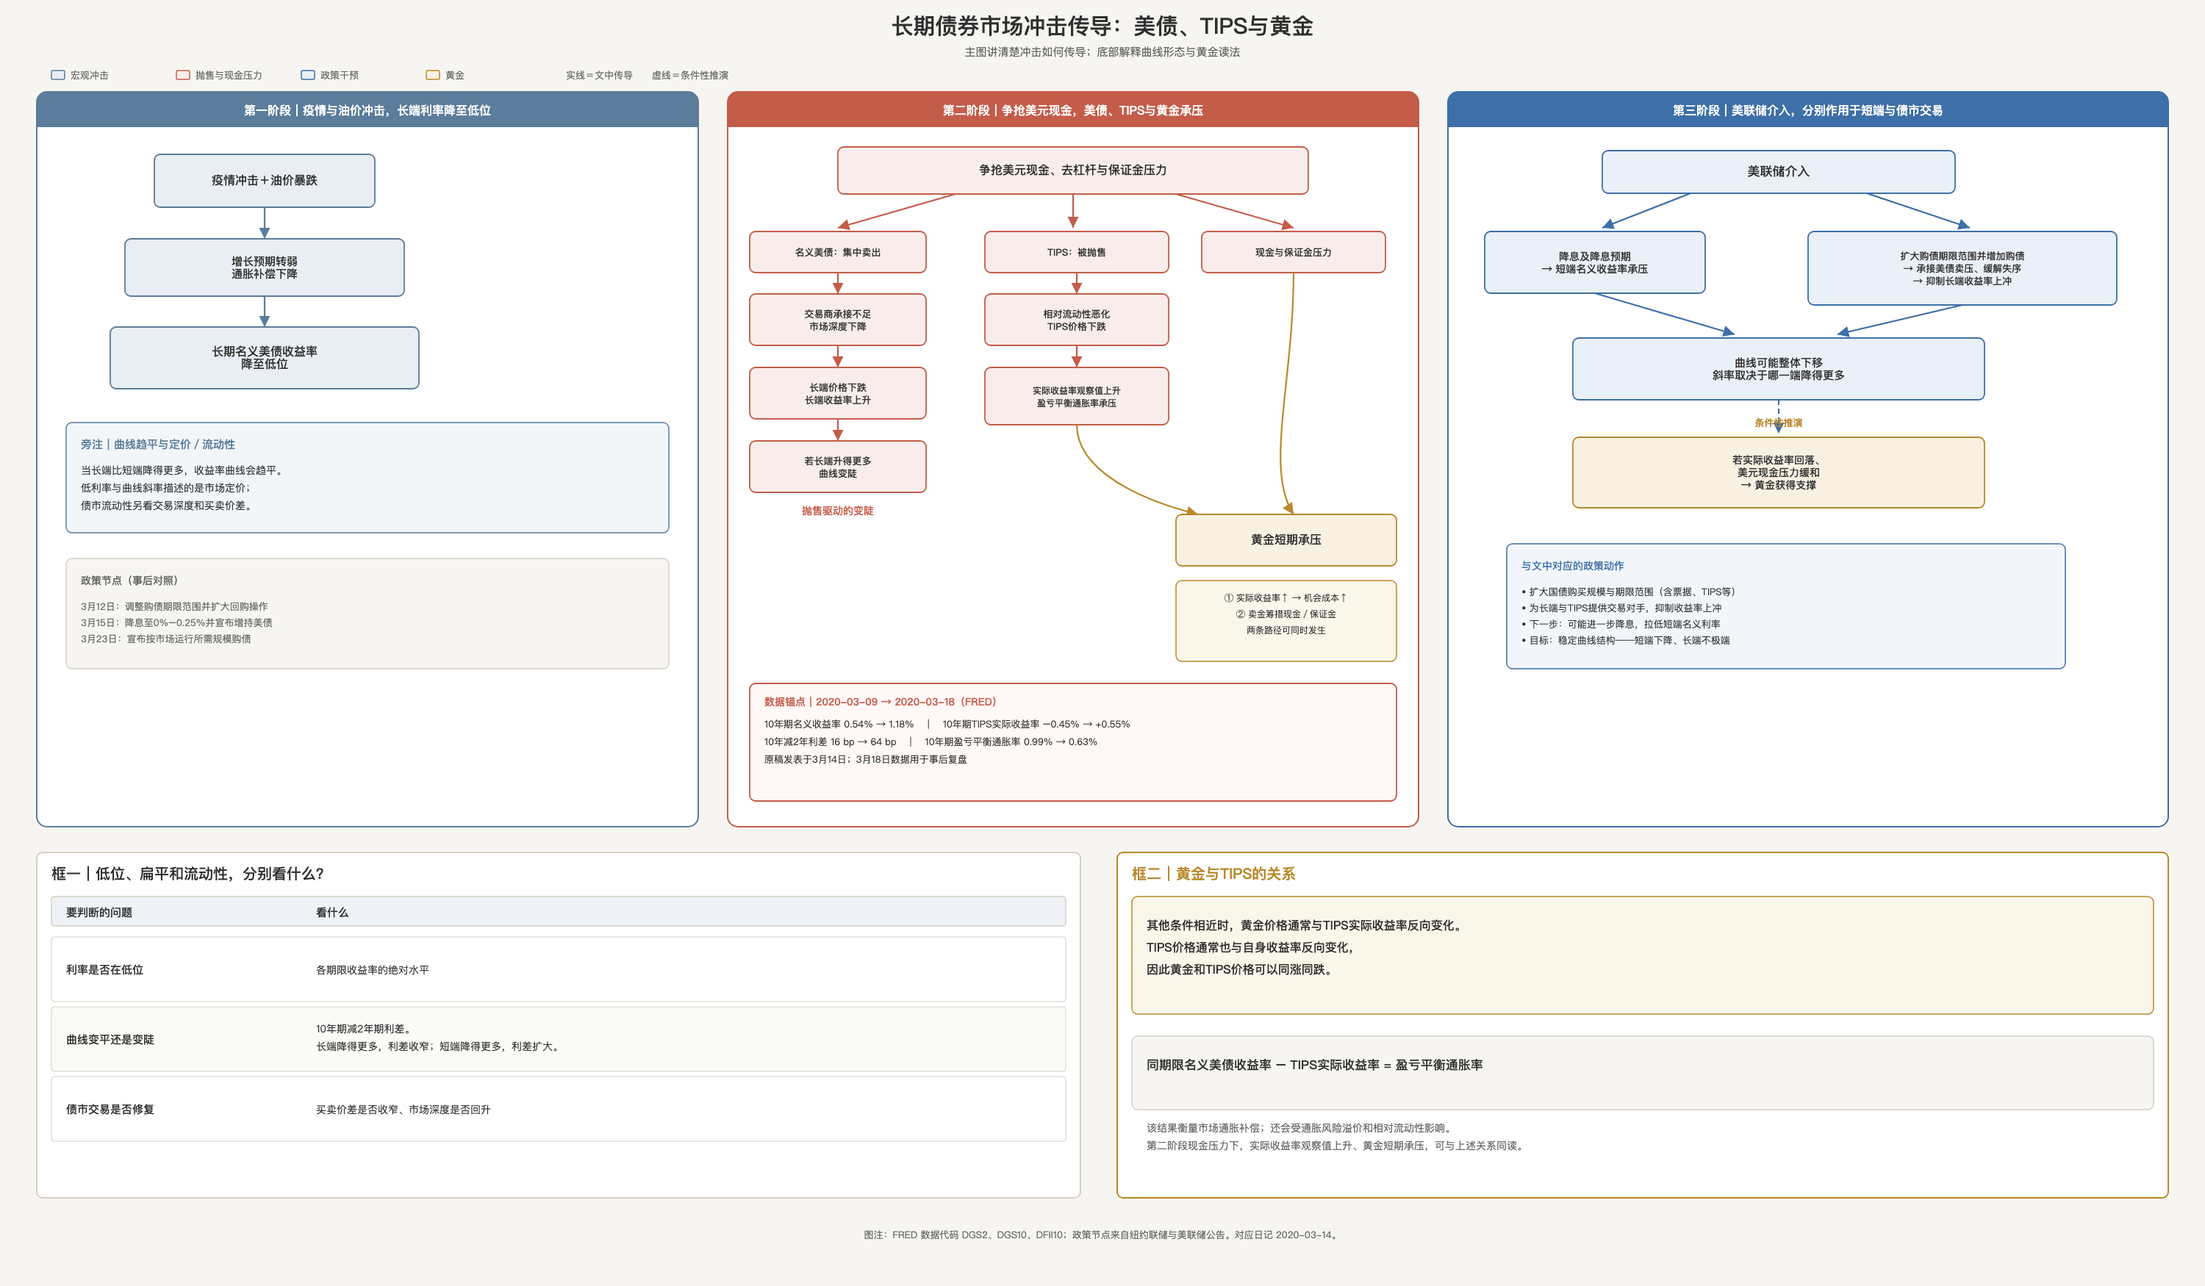
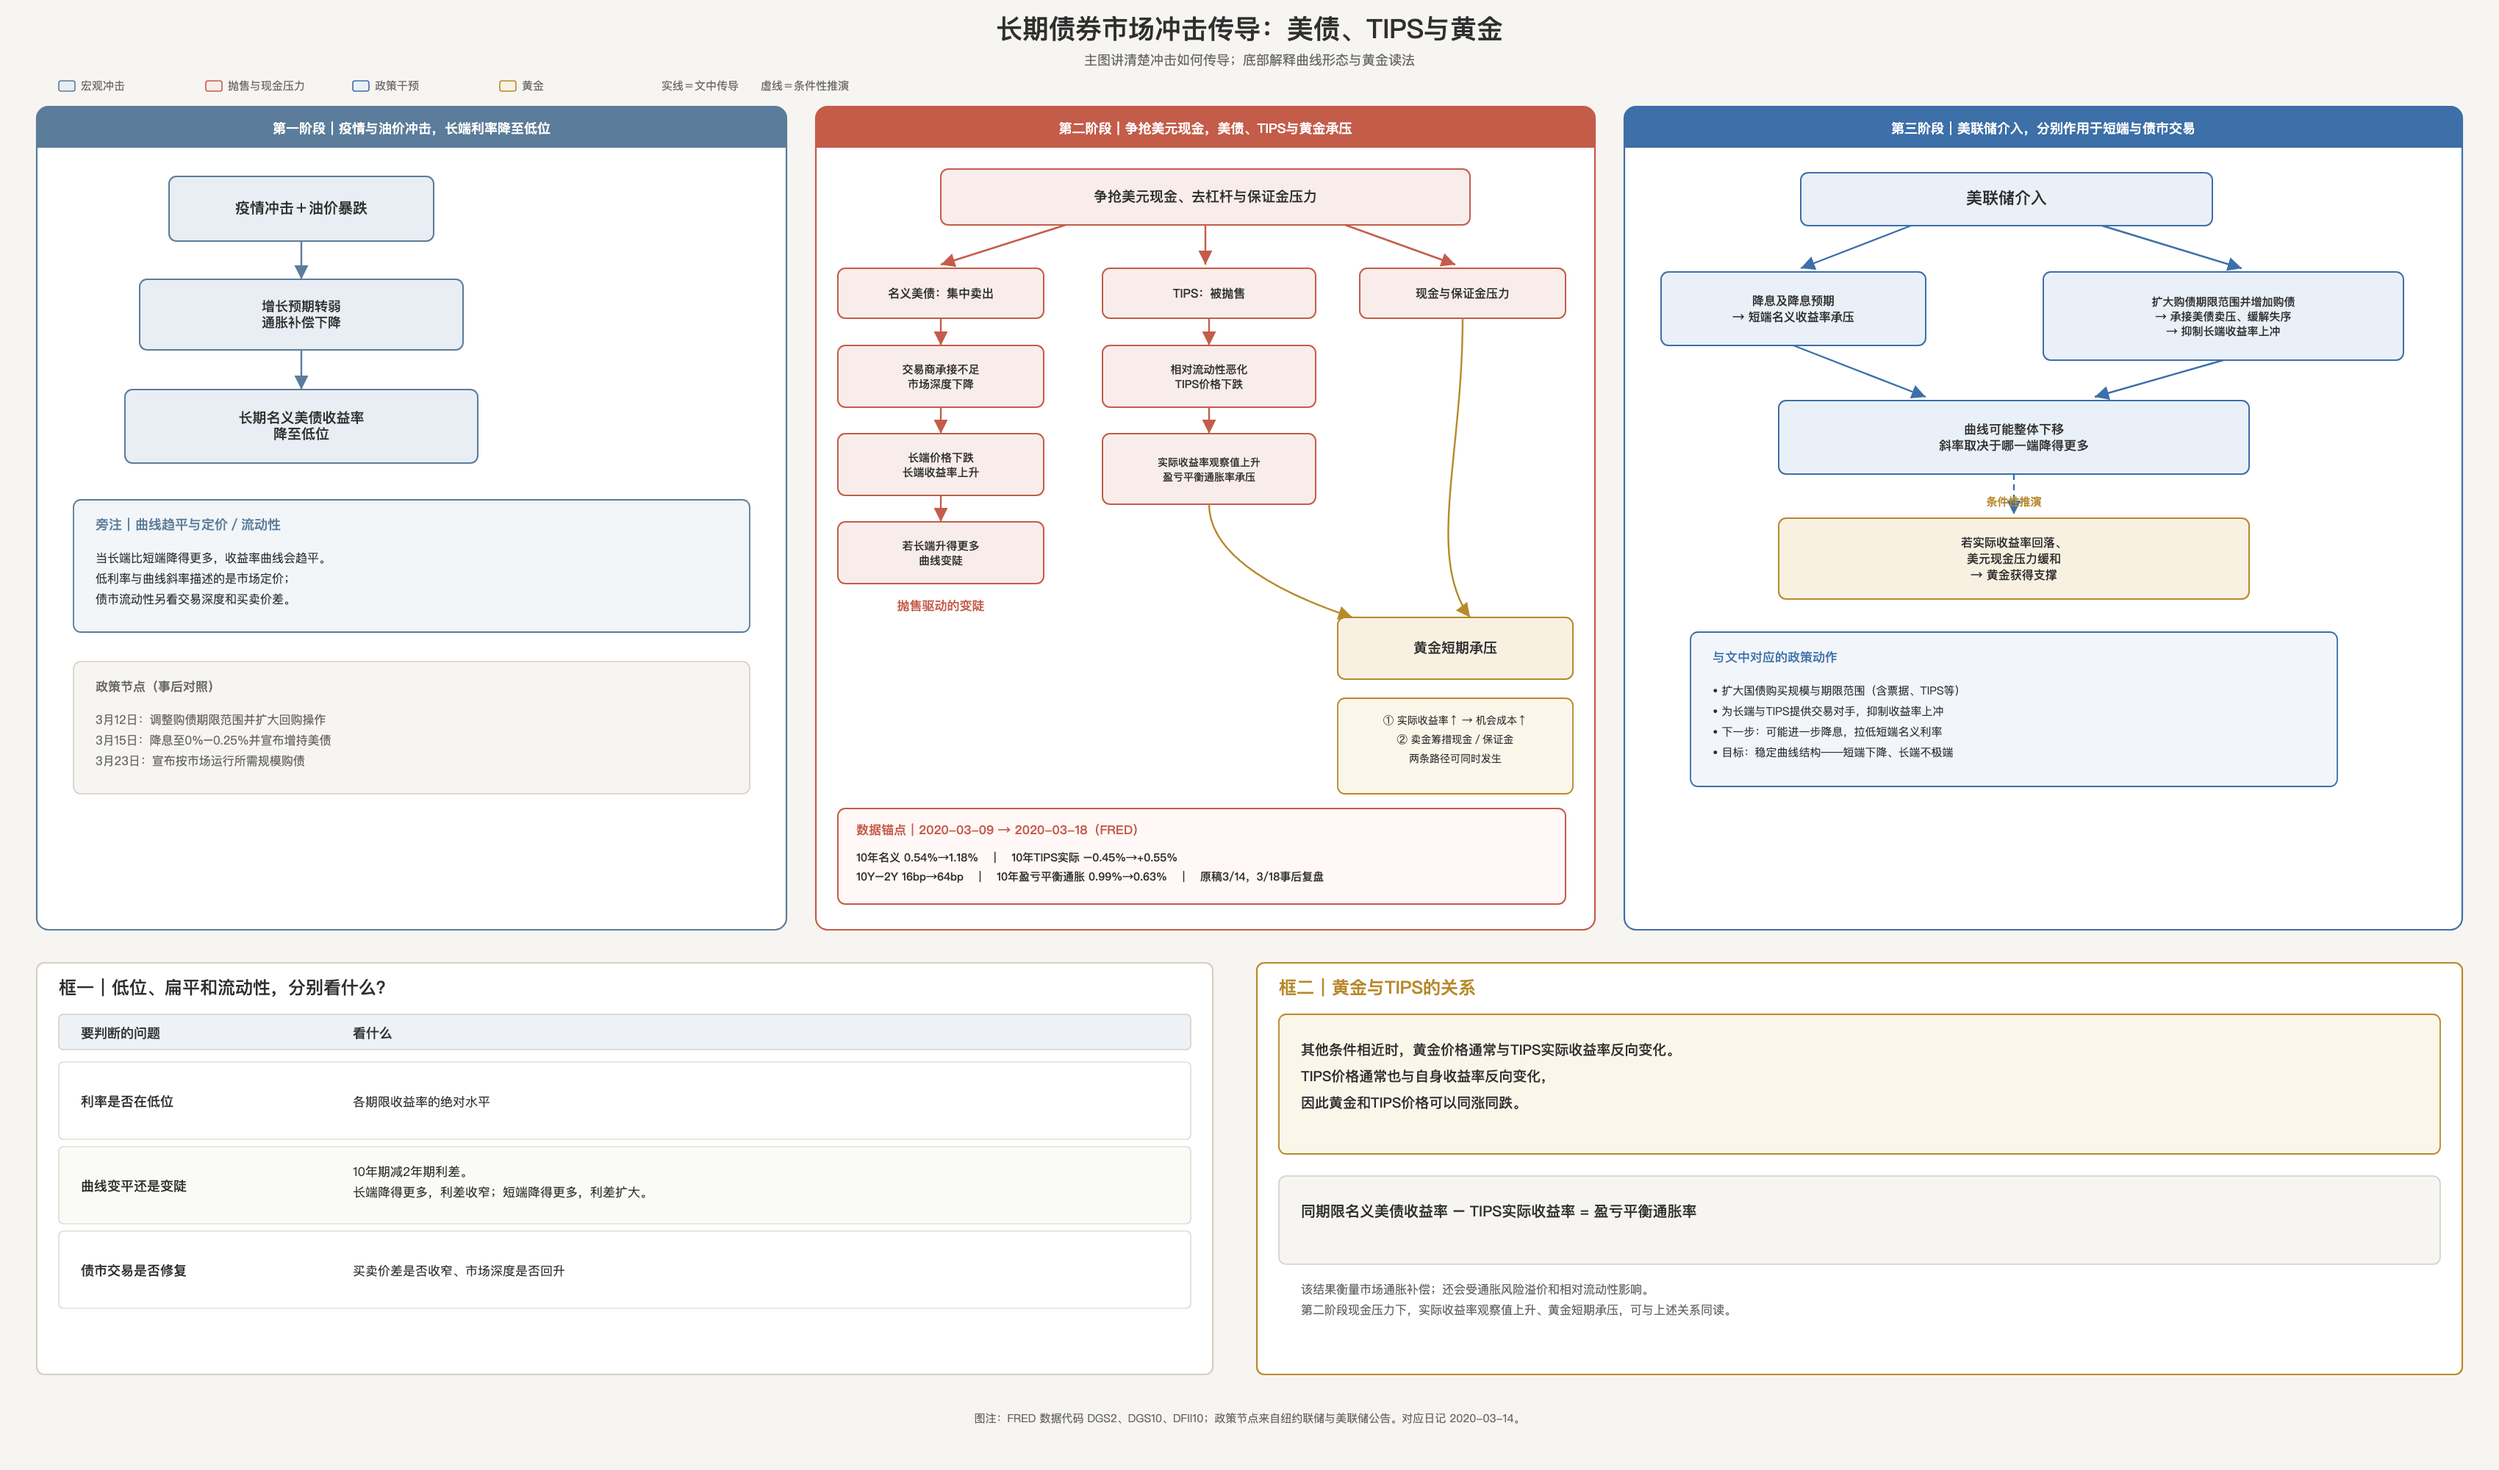
Enlarge type in the March 14 bond-cascade diagram.

diff --git a/index.html b/index.html
@@ -92,7 +92,7 @@
     <div class="lb-count" id="lbCount"></div>
   </div>
 
-  <script src="diary-data.js?v=mar14c"></script>
+  <script src="diary-data.js?v=mar14d"></script>
   <script src="app.js?v=entrylink1"></script>
 </body>
 </html>
